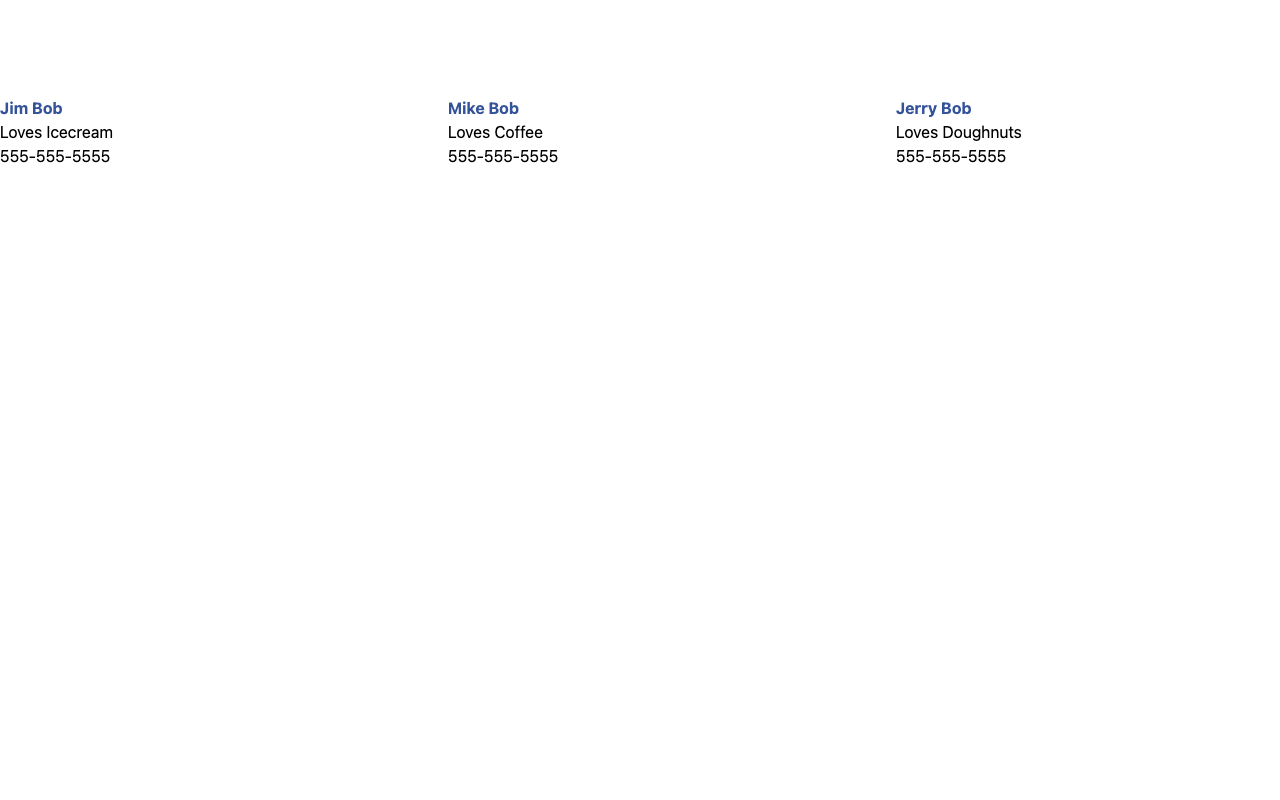
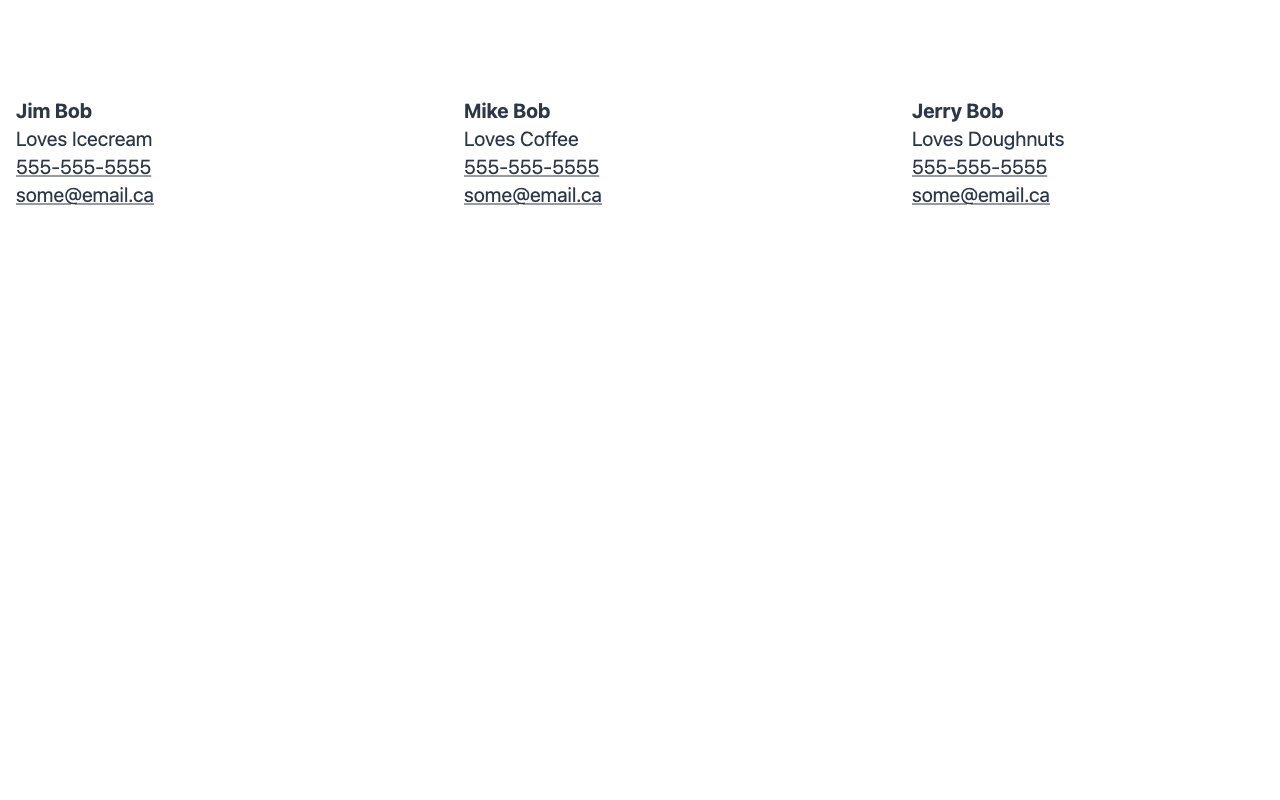
Slice: Carousells Variation: locationsMembers - added optional email field

Changed region(s): [[0.6875, 0.125, 0.8438, 0.2812], [0.3438, 0.125, 0.4688, 0.2812], [0.0, 0.125, 0.125, 0.2812]]

diff --git a/slices/Carousell/index.js b/slices/Carousell/index.js
@@ -92,13 +92,26 @@ const Carousell = ({ slice }) => {
             )}
             {item.job_title && <p className='commonTextStyles commonTextMargins !mb-0 !pb-0'>{item.job_title}</p>}
             {item.phone_number && (
-              <a
-                className='commonTextStyles commonTextMargins linkStyles'
-                href={`tel:${item.phone_number}`}
-                title={`${item.first_last_name} +  ${item.phone_number}`}
-              >
-                {item.phone_number}
-              </a>
+              <p className='commonTextStyles commonTextMargins !mb-0 !pd-0'>
+                  <a
+                    className='linkStyles'
+                    href={`tel:${item.phone_number}`}
+                    title={`${item.first_last_name} +  ${item.phone_number}`}
+                  >
+                    {item.phone_number}
+                  </a>
+              </p>
+            )}
+            {item.email && (
+              <p className='commonTextStyles commonTextMargins '>
+                  <a
+                    className='linkStyles'
+                    href={`mailto:${item.email}`}
+                    title={`Email ${item.first_last_name}`}
+                  >
+                    {item.email}
+                  </a>
+              </p>
             )}
           </div>
         ))}

diff --git a/prismicio-types.d.ts b/prismicio-types.d.ts
@@ -476,6 +476,16 @@ export interface CarousellSliceLocationMembersItem {
    *
    */
   job_title: prismicT.KeyTextField
+  /**
+   * Email field in *Carousell → Items*
+   *
+   * - **Field Type**: Text
+   * - **Placeholder**: *None*
+   * - **API ID Path**: carousell.items[].email
+   * - **Documentation**: https://prismic.io/docs/core-concepts/key-text
+   *
+   */
+  email: prismicT.KeyTextField
 }
 /**
  * locationMembers variation for Carousell Slice
